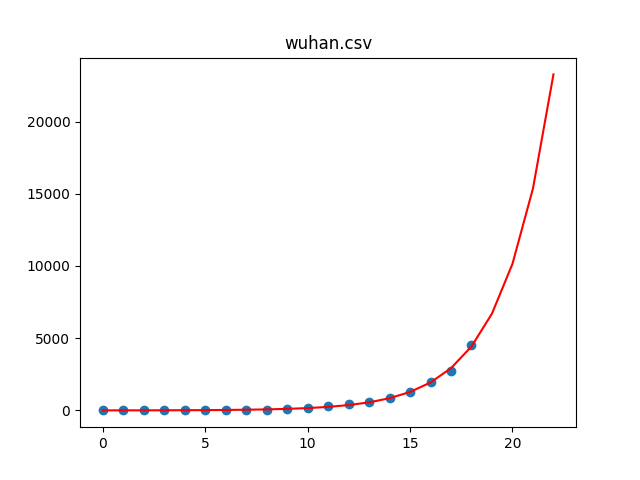
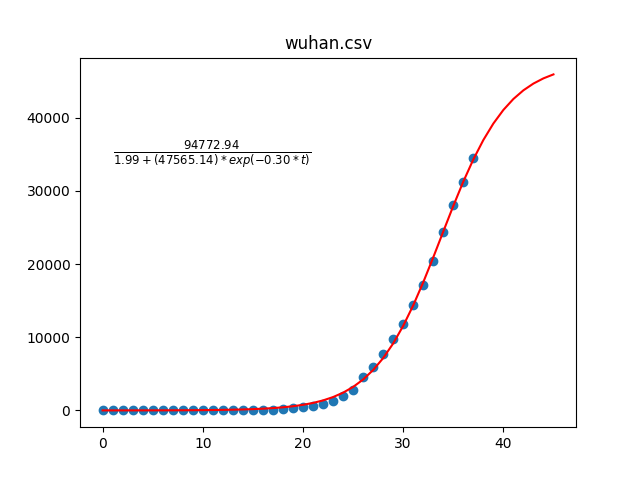
Updated graph
Added more data to wuhan virus. Filled in blank data with data from
previous day.

Added fitted formula to graph.

diff --git a/analysis.py b/analysis.py
@@ -9,13 +9,13 @@ def read_file(filename):
     return df.iloc[:, 1].astype(float).copy()
 
 
-def run_model(file_name, model):
+def run_model(file_name, model, expression):
     y = read_file(file_name)
     x = np.arange(0, len(y), 1)
 
     coeff, cov = curve_fit(model, x, y)
-
-    print(cov)
+    formula = expression(*coeff)
+    print(formula)
 
     x_1 = np.arange(0, len(x) * 1.2, 1)
     y_1 = [model(t, *coeff) for t in x_1]
@@ -23,11 +23,13 @@ def run_model(file_name, model):
     plt.scatter(x, y)
     plt.plot(x_1, y_1, color="red")
     plt.title(file_name)
+    plt.text(1, y.values[-1], formula, fontsize=12)
     plt.savefig(file_name.split(".")[0] + ".png")
 
 
 if __name__ == '__main__':
-    file_name = "sars.csv"
+    file_name = "wuhan.csv"
     from models import si_model as model
+    from models import si_model_expression as expression
 
-    run_model(file_name, model)
+    coeff = run_model(file_name, model, expression)

diff --git a/models.py b/models.py
@@ -3,3 +3,4 @@ import numpy as np
 
 
 si_model = lambda t, N, I, R: N*I/(I+(N-I)*np.exp(-R*t))
+si_model_expression = lambda N, I, R: r"$\frac{" + f"{N*I:.2f}" + "}{"+ f"{I:.2f}" + "+(" + f"{N-I:.2f}" + ")*exp(-" + f"{R:.2f}" + "*t)}$"
